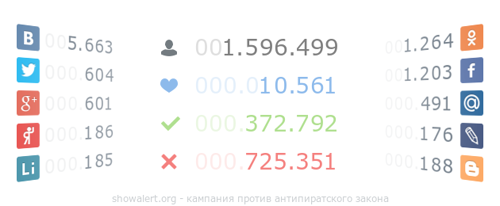
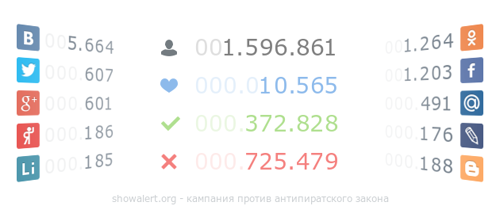
some updates

diff --git a/votes.js b/votes.js
@@ -1,1 +1,1 @@
-window.lk.votes(23582)
+window.lk.votes(23592)
